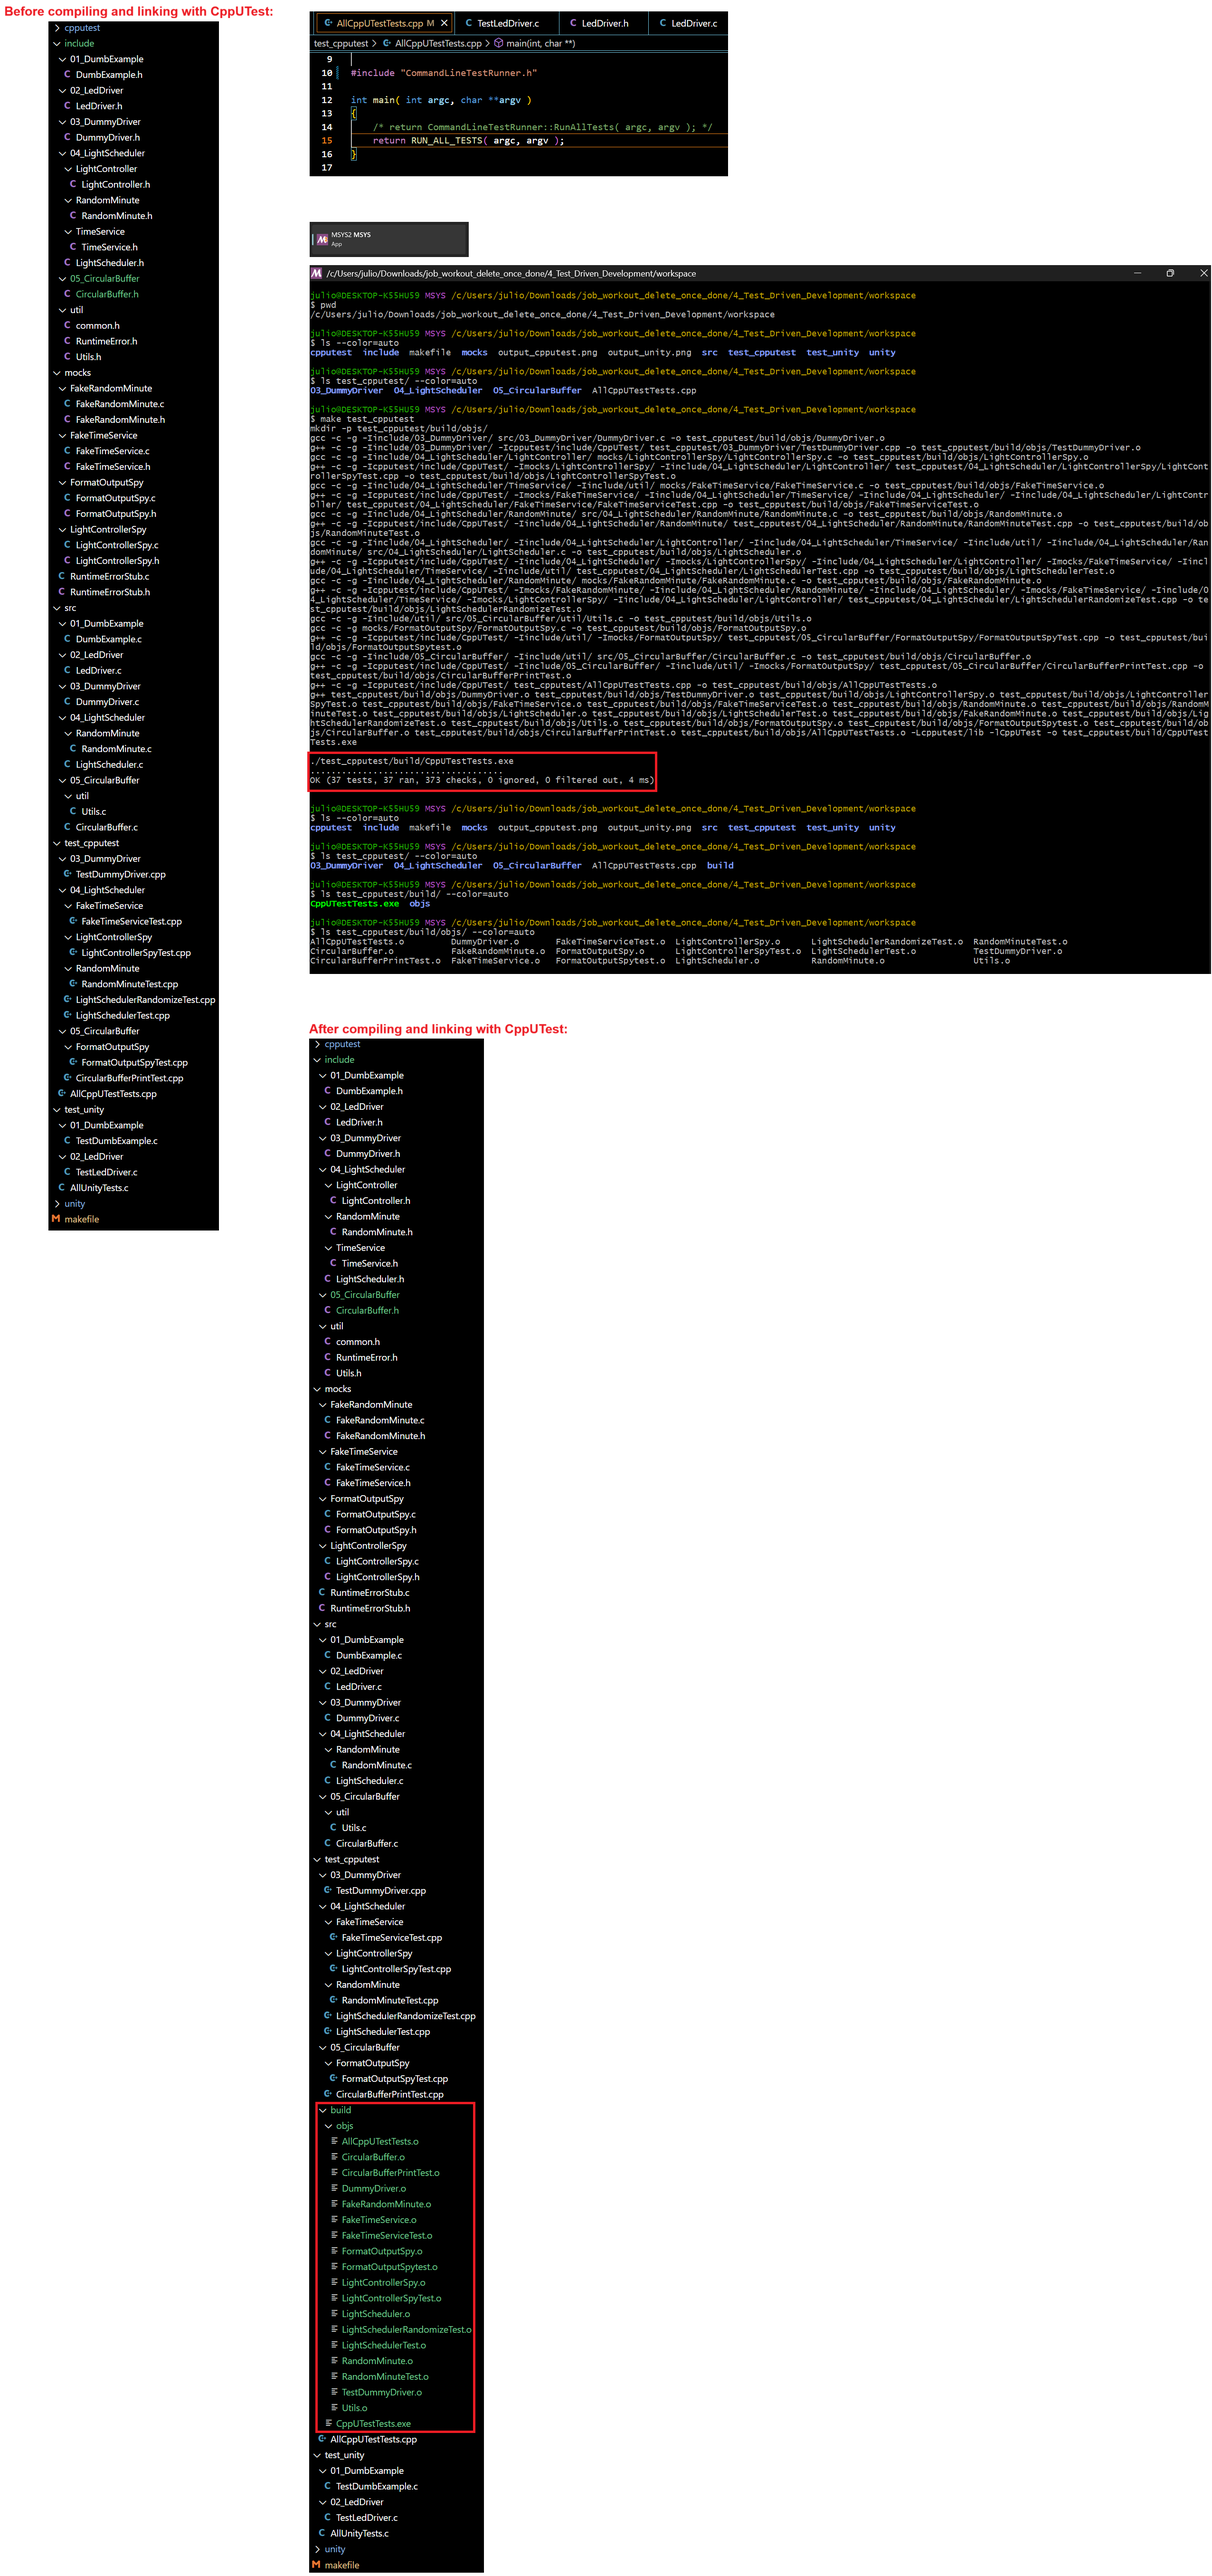
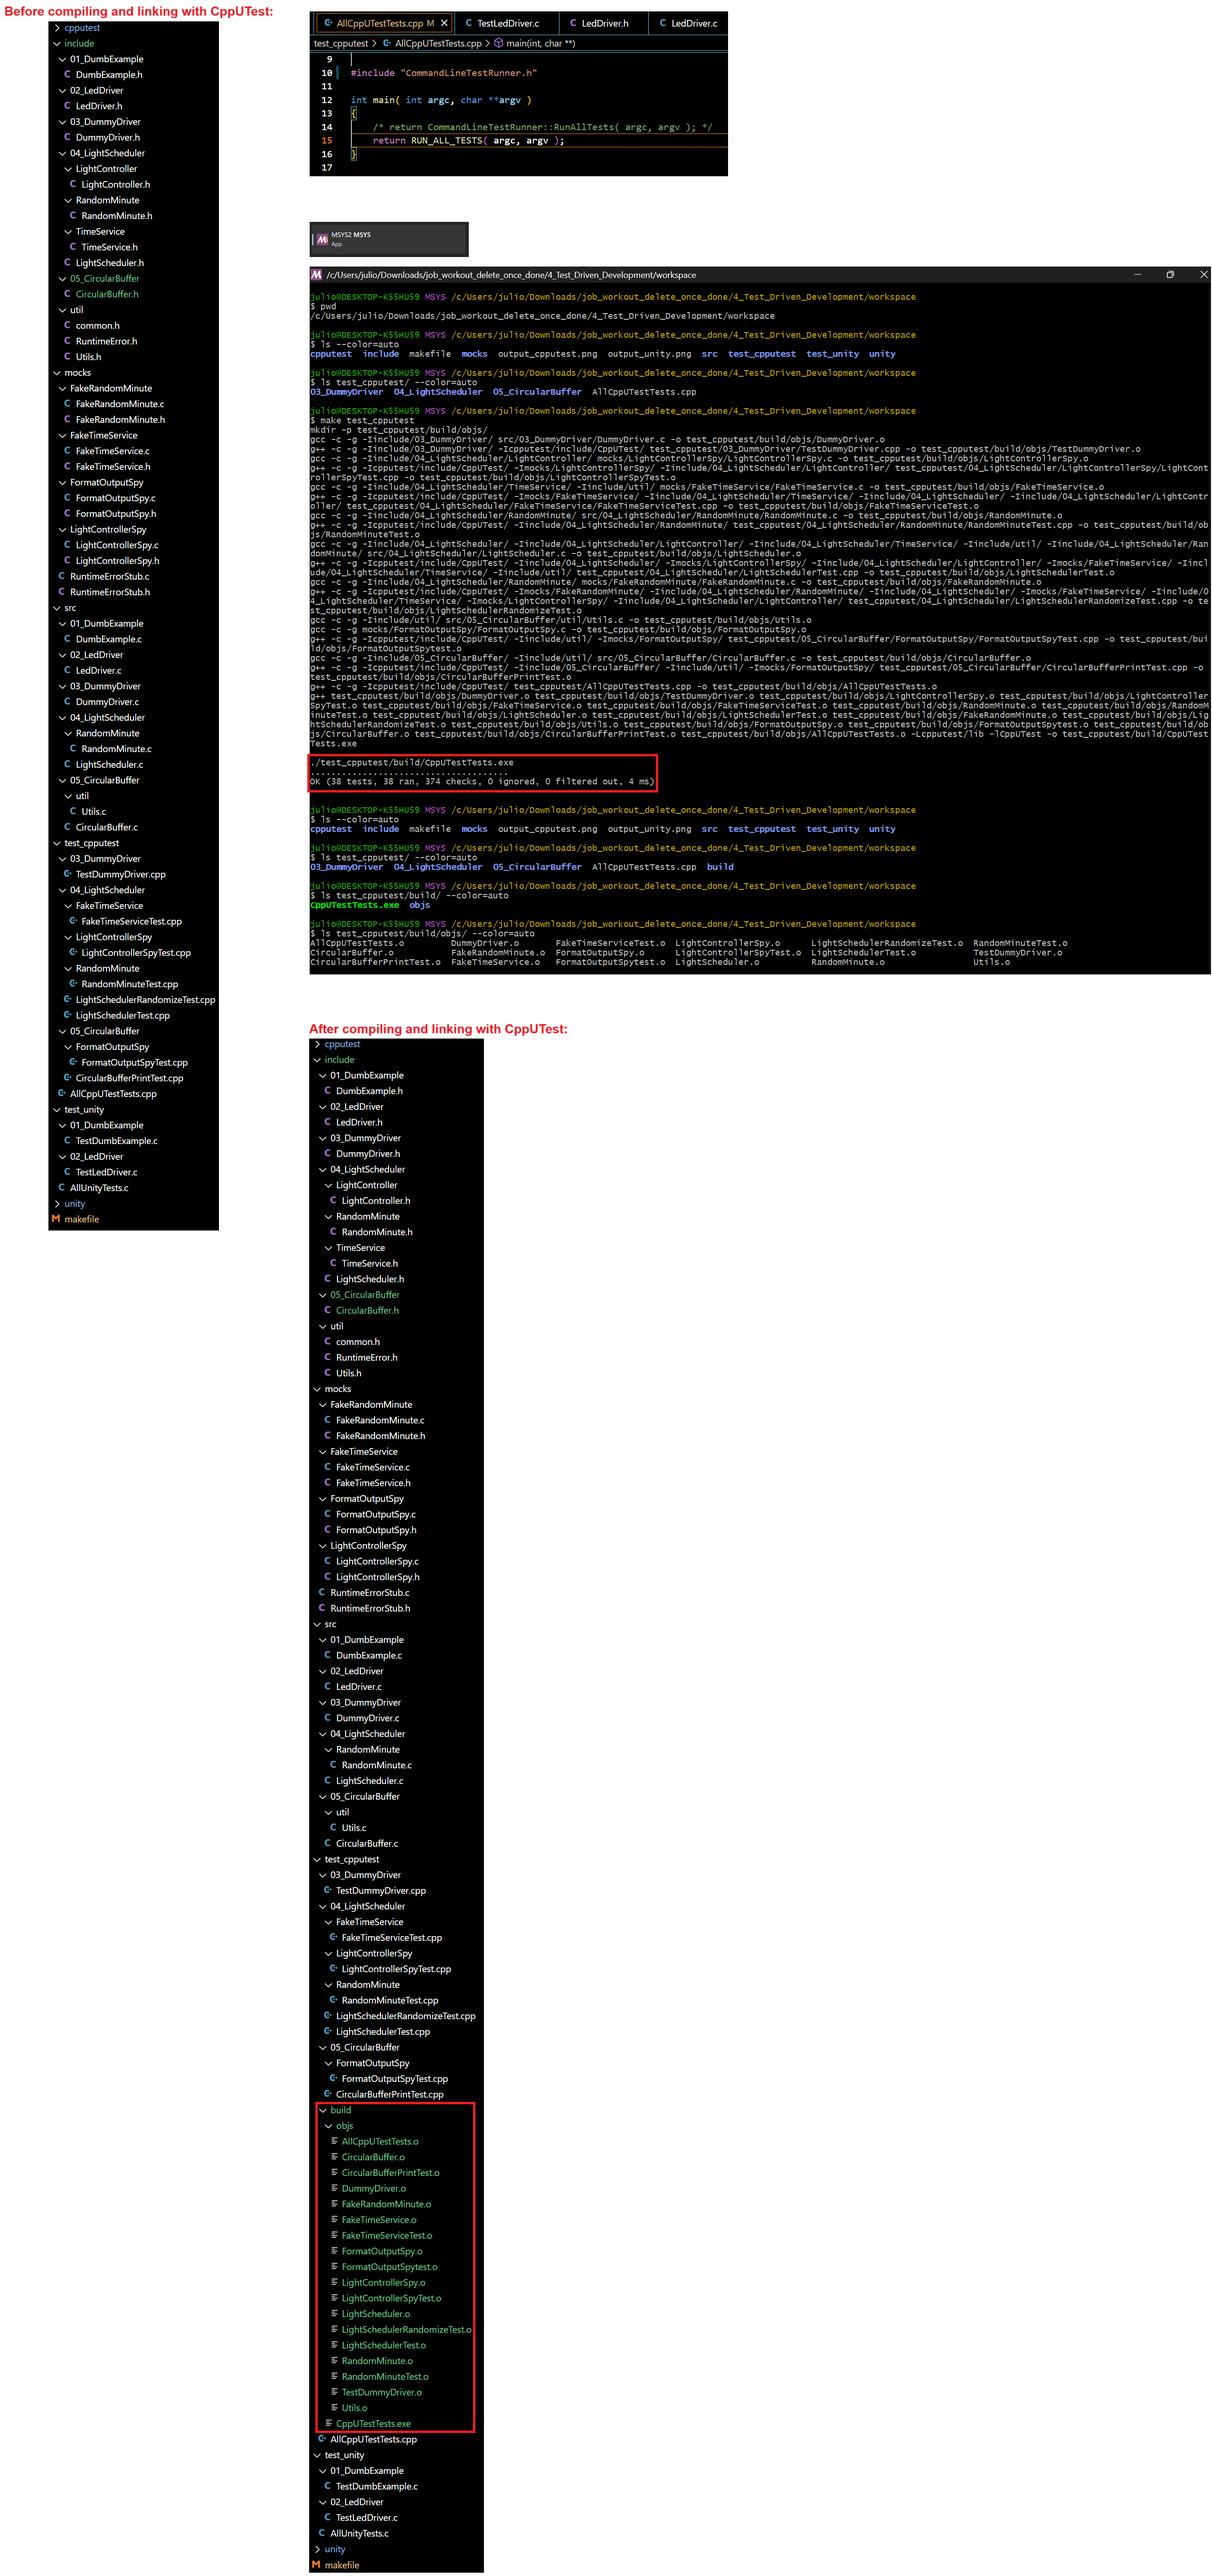
Add CircularBufferPrint PrintOldToNewWhenWrappedAndFull test

Changed region(s): [[0.2476, 0.0935, 1.0, 0.374], [0.8049, 0.3429, 0.8358, 0.374]]

diff --git a/test_cpputest/05_CircularBuffer/CircularBufferPrintTest.cpp b/test_cpputest/05_CircularBuffer/CircularBufferPrintTest.cpp
@@ -215,4 +215,97 @@ TEST( CircularBufferPrint, PrintNotYetWrappedAndIsFull )
 
     /* compare the expected results */
     STRCMP_EQUAL( expectedOutput, actualOutput );
+
+    /* Deallocate the circular buffer */
+    CircularBuffer_Destroy( b );
+}
+
+TEST( CircularBufferPrint, PrintOldToNewWhenWrappedAndFull )
+{
+    /* This test deals with the situation after wrap-around has occurred */
+
+    /* Create a circular buffer with a capacity of five */
+    CircularBuffer b = CircularBuffer_Create( 5 );
+
+    /* At this point both the string buffer (actualOutput) and the circular buffer with a capacity of 5 (b)
+       are already created and empty (see setup()) */
+
+    /* The expected circular buffer integer values are contained within the '<>' characters (i.e. 201 202 203 204 and 999) */
+    expectedOutput = "Circular buffer content:\n<201, 202, 203, 204, 999>\n";
+
+    /* insert the values 200, 201, 202, 203 and 204 into the circular buffer */
+    CircularBuffer_Put( b, 200 );
+    CircularBuffer_Put( b, 201 );
+    CircularBuffer_Put( b, 202 );
+    CircularBuffer_Put( b, 203 );
+    CircularBuffer_Put( b, 204 );
+
+    /* The circular buffer is already full at this point: 200, 201, 202, 203 and 204.
+       No more values can be written to it */
+
+    /* Get a value from the circular buffer.
+       
+       The circular buffer is a FIFO structure, the oldest value introduced is the first value to read.
+       in this case the value obtained is 200.
+       
+       After this operation the circular buffer will have an empty space (at the position of the 200 value just read).
+
+       Note: Actually the value 200 still exists in memory (this can be confirmed by reading b->values[0]).
+             What happens is that the outdex (position at next value to read) "pointer" of the circular buffer points
+             to the next position (i.e. b->outdex++). But since the number of elements is reduced by one (i.e. b->count--),
+             when the circular buffer values are printed with CircularBuffer_Print() only "b->count" values will be read
+             starting at b->outdex++ (i.e. the value at the position (b->values[outdex]) just obtained by CircularBuffer_Get()
+             will be ignored as it is not part of the circular buffer anymore) */
+    CircularBuffer_Get( b );
+
+    /* Insert one value into the buffer.
+    
+       Earlier the circular buffer was:
+       200, 201, 202, 203 and 204 (count = 5, i.e. buffer full)
+       |-> outdex (next position to read from)
+       |-> index (next position to instert at).
+                                       
+       Then one element was read (200), the circular buffer is (notice is the same, what changed were outdex and count):
+       200, 201, 202, 203 and 204 (count = 4, i.e. buffer has one empty slot)
+       |     |-> outdex (next position to read from)
+       |-> index (next position to insert at).
+       
+       This means that this value (999) insterted here will replace the value (200) just obtained by CircularBuffer_Get():
+       999, 201, 202, 203 and 204 (count = 5, i.e. buffer full)
+            |-> outdex
+            |-> index  */
+    CircularBuffer_Put( b, 999 );
+
+    /* Note: at this point the circular buffer has the next elements in order,
+             201, 202, 203, 204 and 999
+             
+             Why not 999, 201, 202, 203 and 204 as shown in the comment above?
+             Because the circular buffer is a FIFO structure, it will start reading from 'b->index' (i.e. value 201)
+             'count' values (i.e. 5 values) like this: 201, 202, 203, 204 and 999 */
+
+    /* "Print" the contents of the circular buffer.
+    
+       Here CircularBuffer_Print() uses FormatOutput(), but FormatOutput() does not point to the default printf(),
+       instead it points to the FormatOutputSpy(), so the circular buffer output will be redirected to 'b' instead,
+       like this: "Circular buffer content:\n<>\n".
+       
+       Similarly the circular buffer integer values are contained within the '<>' characters. 
+       The characters "Circular buffer content:\n<" and ">\n" are not part of the circular buffer,
+       they are part of the string buffer created with FormatOutputSpy_Create().
+       
+       Notes:
+       - 'b' is the structure that holds the circular buffer parameters and values
+       - 'b->values[]' is the actual circular buffer that stores integer values
+       - the string used to print the circular buffer contents is actually a pointer to a memory
+         location (dynamically) allocated by (in this case) FormatOutputSpy_Create(),
+         (see static char *buffer in FormatOutputSpy.c).
+         
+       Production code uses printf() instead of FormatOutputSpy() to print the circular buffer contents */
+    CircularBuffer_Print( b );
+
+    /* compare the expected results */
+    STRCMP_EQUAL( expectedOutput, actualOutput );
+
+    /* Deallocate the circular buffer */
+    CircularBuffer_Destroy( b );
 }

diff --git a/src/05_CircularBuffer/CircularBuffer.c b/src/05_CircularBuffer/CircularBuffer.c
@@ -57,7 +57,7 @@ int CircularBuffer_Put( CircularBuffer self, int value )
     /* if the circular buffer is already full */
     if ( self->count >= self->capacity )
     {
-        /* don't insert anything into the circular buffer */
+        /* fail to insert anything into the circular buffer */
         return 0;
     }
 
@@ -69,24 +69,60 @@ int CircularBuffer_Put( CircularBuffer self, int value )
     /* if index ("pointer" to next location to insert) is out of the circular buffer's bounds */
     if ( self->index >= self->capacity )
     {
-        /* restart the index */
+        /* restart the index to the beginning of the circular buffer */
         self->index = 0;
     }
 
-    /* increase the number of elements currently stored in the circular buffer */
+    /* increase by one the number of elements currently stored in the circular buffer */
     self->count++;
 
     return 1;
 }
 
+int CircularBuffer_Get( CircularBuffer self )
+{
+    int value; /* value read */
+
+    /* if the circular buffer is empty */
+    if ( self->count <= 0 )
+    {
+        /* fail to read from the circular buffer */
+        return 0;
+    }
+
+    /* otherwise ... */
+
+    /* read the oldest entry in the circular buffer */
+    value = self->values[ self->outdex++ ];
+
+    /* if outdex ("pointer" to next location to read) is out of the circular buffer's bounds */
+    if ( self->outdex >= self->capacity )
+    {
+        /* restart the outdex to the beginning of the circular buffer */
+        self->outdex = 0;
+    }
+
+    /* reduce by one the number of elements currently stored in the circular buffer */
+    self->count--;
+
+    return value;
+}
+
+
 void CircularBuffer_Print( CircularBuffer self )
 {
+    /* This function only "peeks" at the circular buffer contents,
+       the circular buffer values and internal "pointers" (index/outdex) are not modified unlike
+       functions CircularBuffer_Put() and CircularBuffer_Get() */
+
     int i; /* index */
     int currentValue = self->outdex; /* "pointer" to the next location to read a value from the circular buffer */
 
     FormatOutput( "Circular buffer content:\n<" );
 
-    /* loop through the circular buffer('s array) */
+    /* loop through the circular buffer('s array)
+       note: the looping won't start from position zero of the circular buffer, instead will
+             start at 'outdex' (next value to read) and will read 'count' number of values */
     for ( i = 0; i < self->count; i++ )
     {
         /* for each value (if any) of the circular buffer */
@@ -102,7 +138,7 @@ void CircularBuffer_Print( CircularBuffer self )
         /* if outdex ("pointer" to next value to print) is out of the circular buffer's bounds */
         if ( currentValue >= self->capacity )
         {
-            /* restart the index */
+            /* restart the index to the beginning of the circular buffer */
             currentValue = 0;
         }
     }

diff --git a/include/05_CircularBuffer/CircularBuffer.h b/include/05_CircularBuffer/CircularBuffer.h
@@ -15,6 +15,7 @@
     CircularBuffer CircularBuffer_Create( int capacity );
     void CircularBuffer_Destroy( CircularBuffer self );
     int CircularBuffer_Put( CircularBuffer self, int value );
+    int CircularBuffer_Get( CircularBuffer self );
     void CircularBuffer_Print( CircularBuffer self );
 
 #endif
